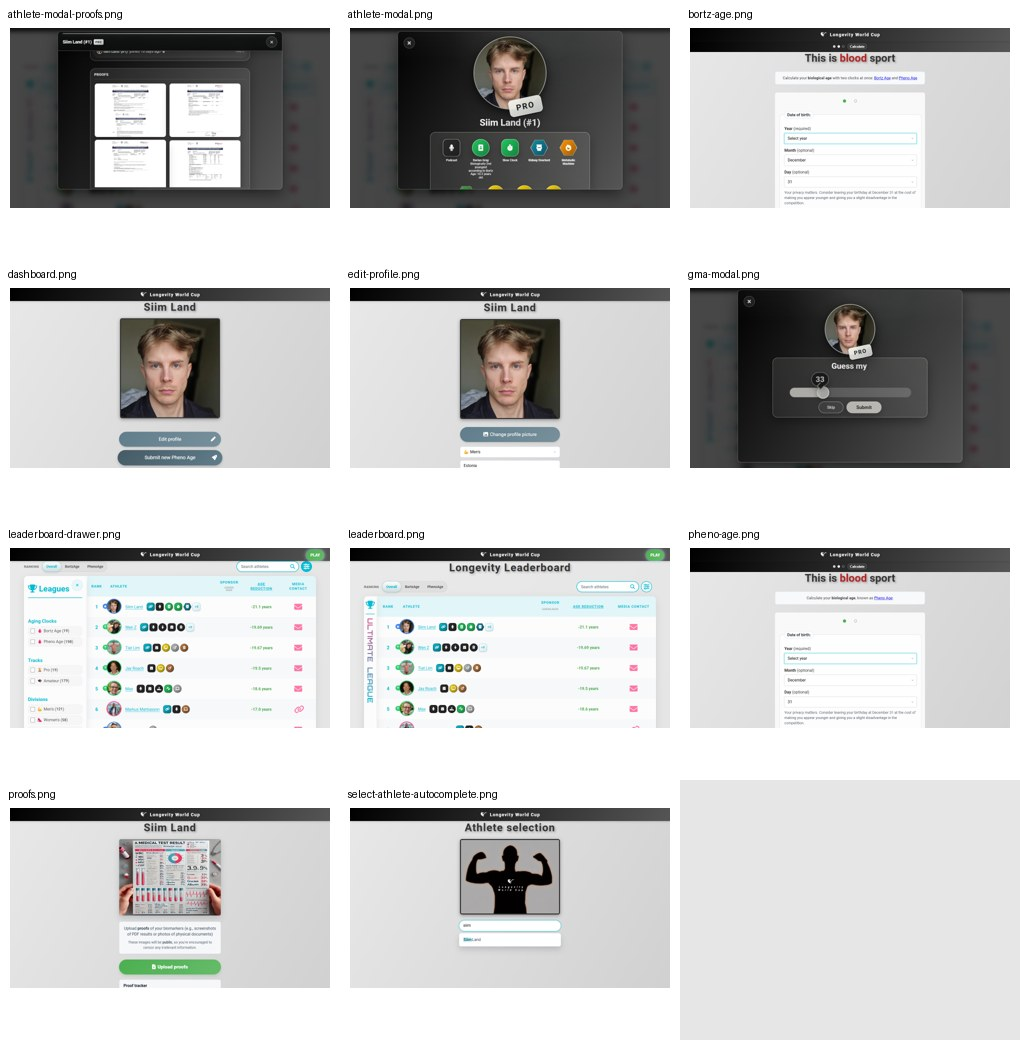
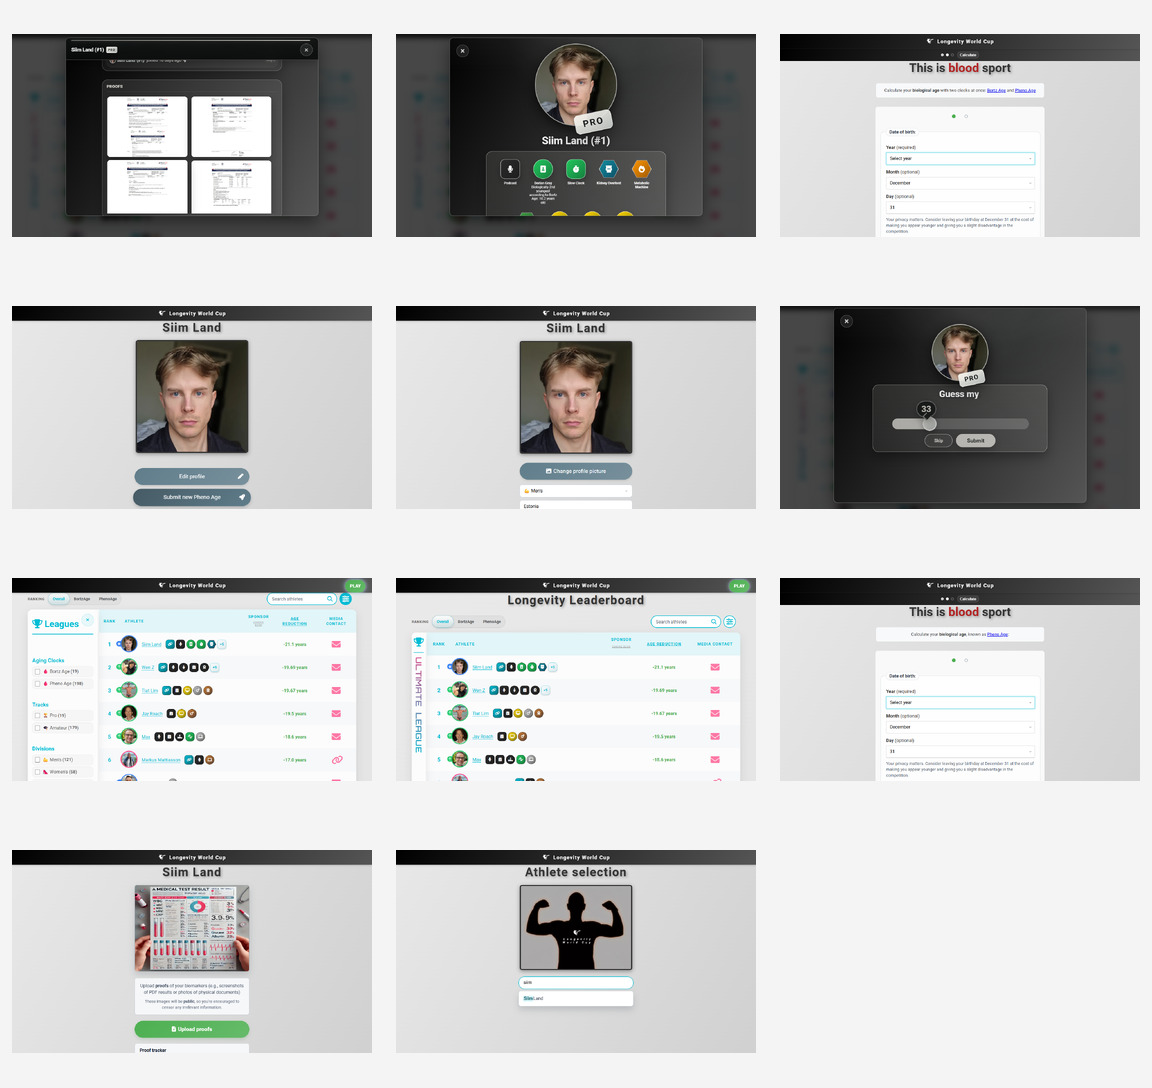
Clarify leaderboard drawer scrolling

Changed region(s): [[0.0, 0.2462, 1.0, 0.7385], [0.0, 0.0, 1.0, 0.2154], [0.0, 0.7385, 0.6686, 0.9846]]

diff --git a/LongevityWorldCup.Website/wwwroot/partials/leaderboard-content.html b/LongevityWorldCup.Website/wwwroot/partials/leaderboard-content.html
@@ -1620,10 +1620,20 @@
         .sidebar{
             width:min(82vw, 320px); max-width:calc(100vw - 2rem); margin-right:0; margin-bottom:1rem;
             padding:1rem 1rem 1.75rem; padding-bottom:calc(env(safe-area-inset-bottom) + 1.75rem);
-            position:fixed; top:0; left:0; height:100%; align-items:stretch; border-radius:0 18px 18px 0;
-            background:var(--card-bg); z-index:1002; box-shadow:0 18px 42px rgba(0,0,0,.26); overflow-y:auto; transform:translateX(-105%);
+            position:fixed; top:0; left:0; height:100dvh; max-height:100dvh; align-items:stretch; border-radius:0 18px 18px 0;
+            background:var(--card-bg); z-index:1002; box-shadow:0 18px 42px rgba(0,0,0,.26); overflow-x:hidden; overflow-y:auto; transform:translateX(-105%);
             visibility:hidden; pointer-events:none;
             transition:transform .3s ease-in-out, visibility 0s linear .3s; box-sizing:border-box; overscroll-behavior:contain;
+            -webkit-overflow-scrolling:touch; scrollbar-gutter:stable; scrollbar-width:thin; scrollbar-color:rgba(0,188,212,.55) transparent;
+        }
+        .sidebar::-webkit-scrollbar{ width:8px; }
+        .sidebar::-webkit-scrollbar-track{ background:transparent; }
+        .sidebar::-webkit-scrollbar-thumb{ background:rgba(0,188,212,.45); border-radius:999px; border:2px solid var(--card-bg); }
+        .sidebar::-webkit-scrollbar-thumb:hover{ background:rgba(0,188,212,.68); }
+        .sidebar.expanded::after{
+            content:''; position:fixed; top:5.4rem; left:calc(min(82vw, 320px) - .7rem); bottom:1rem; width:3px; border-radius:999px;
+            background:linear-gradient(to bottom, rgba(0,188,212,.08), rgba(0,188,212,.42), rgba(0,188,212,.08));
+            pointer-events:none;
         }
         .sidebar.expanded{
             display:block; width:min(82vw, 320px); max-width:calc(100vw - 2rem);
